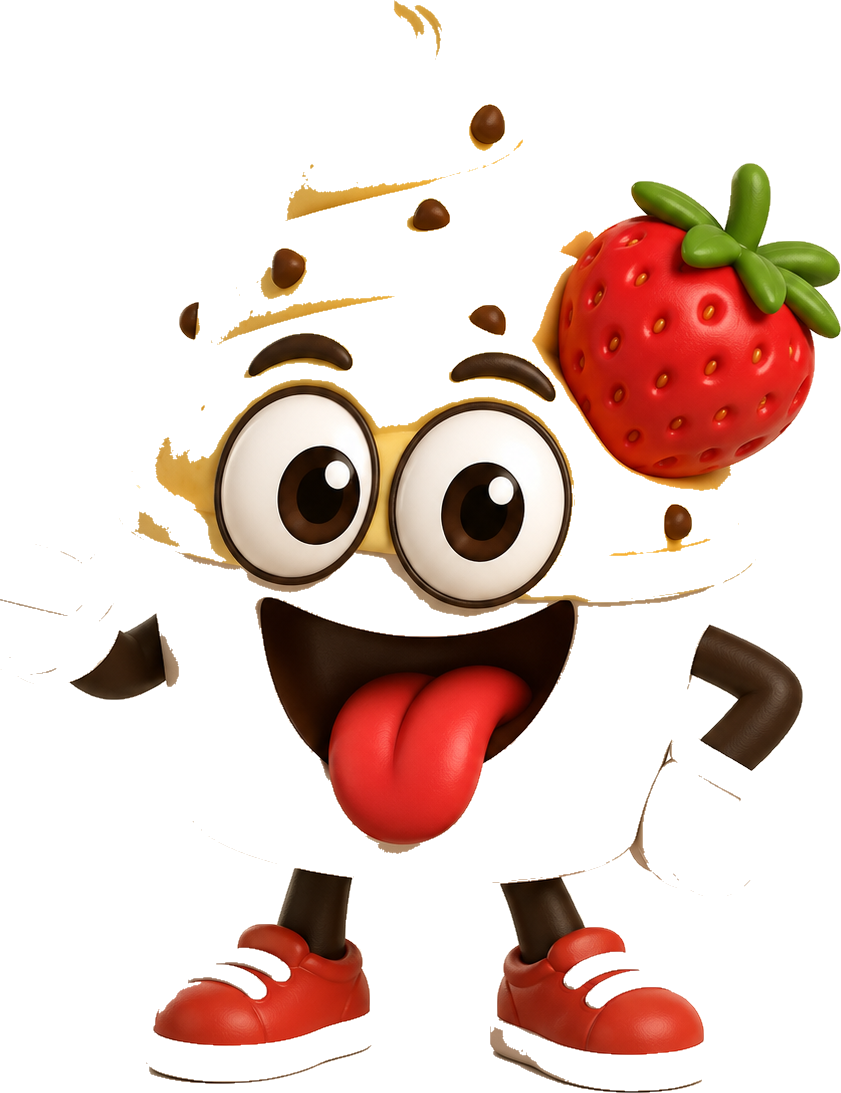
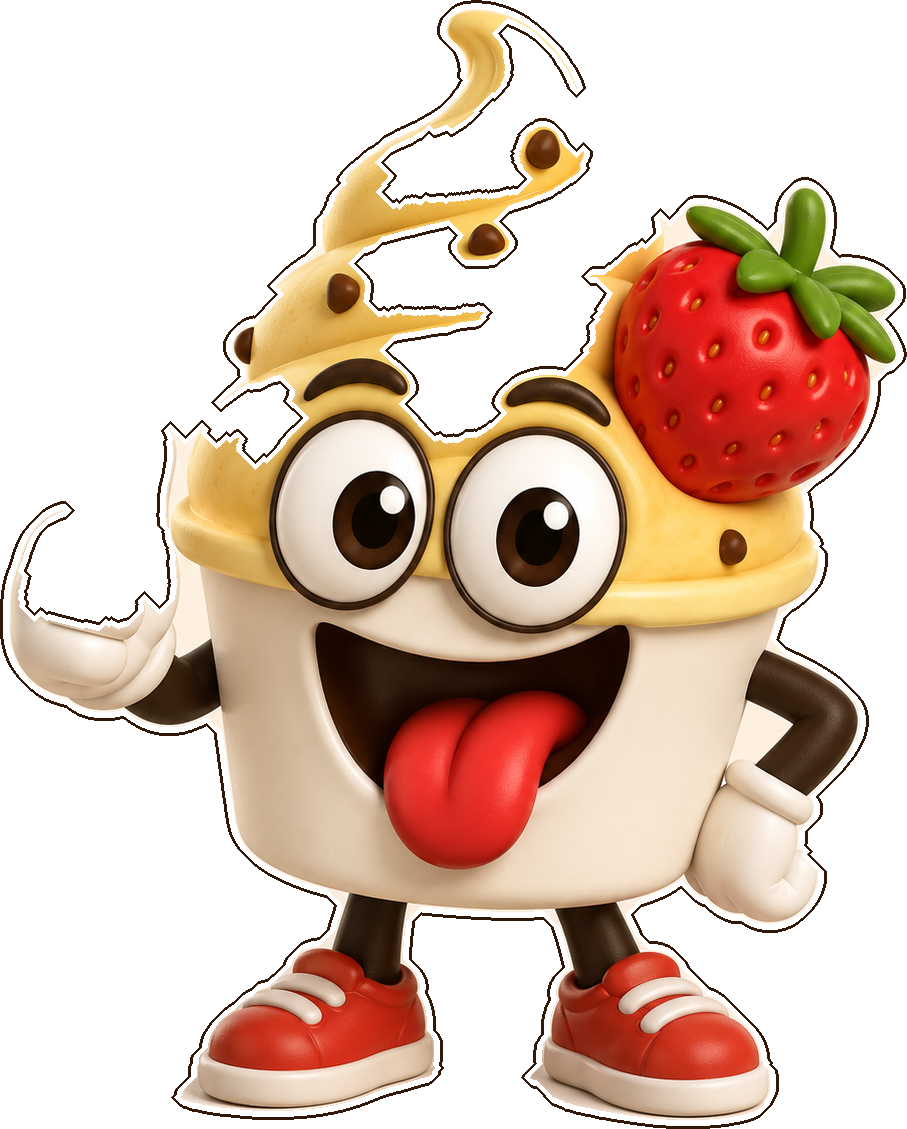
Mascota: contorno solido, halo de color e interaccion por seccion

diff --git a/components/Mascota.tsx b/components/Mascota.tsx
@@ -4,44 +4,72 @@ import Image from "next/image";
 import { useCallback, useEffect, useRef, useState } from "react";
 import { AnimatePresence, motion, useReducedMotion } from "framer-motion";
 
-/** Mensajes que invitan a comprar. */
-const MESSAGES: string[] = [
+type Section = "productos" | "pedido" | "other";
+type Scene = "peek" | "walk" | "fly" | "roll" | "hang" | "eat";
+
+/** Frases generales que invitan a comprar. */
+const MSG_GENERAL: string[] = [
   "¡Llévate 2 sabores y duplica la felicidad! 🧁🧁",
   "El Chocolate nuevo está volando… ¡pide el tuyo! 🍫",
   "Un postre hoy = un día perfecto. ¡Ordena ya! ✨",
   "¿Y si mejor pides 3? Nadie se arrepiente 😏",
-  "Arequipe cremosito te está esperando… 🤤",
   "¡Haz tu pedido ahora y endulza tu semana! 🎉",
   "Regala un postre, gana un abrazo 🥰",
-  "Oreo + Mora = combo ganador. ¡Pídelos! 🍪🫐",
-  "Tu antojo no se va a pedir solo 😜 ¡Dale clic!",
-  "Maracuyá tropical, felicidad total. ¡Ordena! 🌴",
   "Los mejores planes empiezan con un postre 💛",
-  "¡Pide para toda la familia y sé el héroe de hoy! 🦸",
-  "Leche Klim: pruébalo una vez, lo pedirás siempre 🥛",
-  "Antojo detectado 🚨 ¡Corre a hacer tu pedido!",
-  "Limón fresquito para este calor… ¡pídelo ya! 🍋",
-  "5 postres máximo por sabor… ¡reta el límite! 😎"
+  "Antojo detectado 🚨 ¡Corre a hacer tu pedido!"
 ];
 
-type Scene = "peek" | "walk" | "fly" | "roll" | "hang" | "eat";
-const SCENES: Scene[] = ["peek", "walk", "fly", "roll", "hang", "eat"];
+/** Frases cuando el usuario está viendo los sabores. */
+const MSG_PRODUCTOS: string[] = [
+  "Yo pediría más de este 😋",
+  "¿Y si pruebas este otro sabor? 👀",
+  "Este combina delicioso con el Oreo 🍪",
+  "Mmm… a mí se me antojó 🤤",
+  "Agrega 2 y te sale más rico el plan 😏",
+  "Este es de mis favoritos, ¡pídelo! 💛",
+  "No te quedes con las ganas… ¡agrégalo! 🧁",
+  "Un clásico que nunca falla 🌟"
+];
+
+/** Frases breves durante el formulario (sin molestar). */
+const MSG_PEDIDO: string[] = [
+  "¡Ya casi! Estás a un clic 🎉",
+  "Buena elección 😉",
+  "¡Yo llevo tu pedido volando! 🚀",
+  "¡Gracias por pedir! 💛"
+];
 
 function pick<T>(arr: T[], not?: T): T {
   let v = arr[Math.floor(Math.random() * arr.length)];
-  if (not !== undefined && arr.length > 1) {
-    while (v === not) v = arr[Math.floor(Math.random() * arr.length)];
-  }
+  if (not !== undefined && arr.length > 1) while (v === not) v = arr[Math.floor(Math.random() * arr.length)];
   return v;
 }
 
+const SCENES_GENERAL: Scene[] = ["peek", "walk", "fly", "roll", "hang", "eat"];
+const SCENES_PRODUCTOS: Scene[] = ["peek", "eat", "peek"]; // quieto, sugiriendo
+const SCENES_PEDIDO: Scene[] = ["walk", "fly", "roll"];     // solo de paso, no molesta
+
 const SHOW_MS = 10000;
-const GAP_MS = 2200;
+const GAP_MS = 2000;
+
+function currentSection(): Section {
+  if (typeof window === "undefined") return "other";
+  const mid = window.innerHeight / 2;
+  const inMid = (id: string) => {
+    const el = document.getElementById(id);
+    if (!el) return false;
+    const r = el.getBoundingClientRect();
+    return r.top <= mid && r.bottom >= mid;
+  };
+  if (inMid("pedido")) return "pedido";
+  if (inMid("productos")) return "productos";
+  return "other";
+}
 
 export default function Mascota() {
   const [visible, setVisible] = useState(false);
   const [scene, setScene] = useState<Scene>("peek");
-  const [message, setMessage] = useState(MESSAGES[0]);
+  const [message, setMessage] = useState(MSG_GENERAL[0]);
   const [seed, setSeed] = useState(0.5);
   const [vw, setVw] = useState(1200);
   const [dismissed, setDismissed] = useState(false);
@@ -56,8 +84,17 @@ export default function Mascota() {
   const cycle = useCallback(() => {
     setVw(window.innerWidth);
     setSeed(Math.random());
-    setScene((prev) => (reduce ? "peek" : pick(SCENES, prev)));
-    setMessage((prev) => pick(MESSAGES, prev));
+    const section = currentSection();
+    const scenes = reduce
+      ? ["peek" as Scene]
+      : section === "productos"
+        ? SCENES_PRODUCTOS
+        : section === "pedido"
+          ? SCENES_PEDIDO
+          : SCENES_GENERAL;
+    const msgs = section === "productos" ? MSG_PRODUCTOS : section === "pedido" ? MSG_PEDIDO : MSG_GENERAL;
+    setScene((prev) => pick(scenes, prev));
+    setMessage((prev) => pick(msgs, prev));
     setVisible(true);
     const hide = setTimeout(() => {
       setVisible(false);
@@ -83,7 +120,7 @@ export default function Mascota() {
 
   const bubble = (extra = "") => (
     <motion.div
-      className={`pointer-events-auto relative max-w-[200px] rounded-2xl border border-caramel/15 bg-white px-3.5 py-2.5 text-[13px] font-bold leading-5 text-cocoa shadow-lift sm:max-w-[240px] sm:text-sm ${extra}`}
+      className={`pointer-events-auto relative max-w-[200px] rounded-2xl border border-caramel/20 bg-white px-3.5 py-2.5 text-[13px] font-bold leading-5 text-cocoa shadow-lift sm:max-w-[240px] sm:text-sm ${extra}`}
       initial={{ opacity: 0, scale: 0.6 }}
       animate={{ opacity: 1, scale: 1 }}
       transition={{ delay: 0.35, type: "spring", stiffness: 260, damping: 18 }}
@@ -100,16 +137,21 @@ export default function Mascota() {
     </motion.div>
   );
 
-  const img = (w: number) => (
-    <Image
-      src="/images/mascota.png"
-      alt="Mascota Postres de Locos"
-      width={248}
-      height={322}
-      className="h-auto w-full drop-shadow-[0_14px_20px_rgba(50,24,8,0.28)]"
-      style={{ width: "100%" }}
-      sizes={`${w}px`}
-    />
+  // Personaje con halo de color detrás para que resalte sobre cualquier fondo.
+  const img = () => (
+    <span className="relative block h-full w-full">
+      <span
+        aria-hidden
+        className="absolute left-1/2 top-1/2 -z-10 h-[115%] w-[115%] -translate-x-1/2 -translate-y-1/2 rounded-full bg-[radial-gradient(circle,rgba(245,183,47,0.55),rgba(195,107,32,0.18)_45%,rgba(245,183,47,0)_72%)] blur-md"
+      />
+      <Image
+        src="/images/mascota.png"
+        alt="Mascota Postres de Locos"
+        width={248}
+        height={309}
+        className="h-auto w-full drop-shadow-[0_12px_18px_rgba(50,24,8,0.30)]"
+      />
+    </span>
   );
 
   return (
@@ -126,11 +168,11 @@ export default function Mascota() {
             transition={spring}
           >
             <motion.div
-              className="w-[88px] sm:w-[116px]"
+              className="w-[92px] sm:w-[122px]"
               animate={reduce ? undefined : { y: [0, -6, 0], rotate: [0, -2.5, 0] }}
               transition={{ duration: 2.6, repeat: Infinity, ease: "easeInOut" }}
             >
-              {img(116)}
+              {img()}
             </motion.div>
             {bubble("mb-5")}
           </motion.div>
@@ -146,11 +188,11 @@ export default function Mascota() {
             transition={cross}
           >
             <motion.div
-              className="w-[80px] sm:w-[104px]"
+              className="w-[82px] sm:w-[106px]"
               animate={{ y: [0, -9, 0], rotate: [-4, 4, -4] }}
               transition={{ duration: 0.55, repeat: Infinity, ease: "easeInOut" }}
             >
-              {img(104)}
+              {img()}
             </motion.div>
             {bubble("mb-6")}
           </motion.div>
@@ -167,13 +209,13 @@ export default function Mascota() {
             transition={cross}
           >
             <motion.div
-              className="relative w-[76px] sm:w-[100px]"
+              className="relative w-[78px] sm:w-[102px]"
               animate={{ y: [0, -16, 0], rotate: [-7, -3, -7] }}
               transition={{ duration: 2.2, repeat: Infinity, ease: "easeInOut" }}
             >
-              <span className="absolute -top-9 left-1/2 -translate-x-1/2 text-3xl sm:text-4xl">🎈</span>
-              <span className="absolute -top-3 left-1/2 h-4 w-px -translate-x-1/2 bg-cocoa/40" />
-              {img(100)}
+              <span className="absolute -top-9 left-1/2 z-10 -translate-x-1/2 text-3xl sm:text-4xl">🎈</span>
+              <span className="absolute -top-3 left-1/2 z-10 h-4 w-px -translate-x-1/2 bg-cocoa/40" />
+              {img()}
             </motion.div>
             {bubble("mt-8")}
           </motion.div>
@@ -188,12 +230,8 @@ export default function Mascota() {
             exit={{ opacity: 0 }}
             transition={cross}
           >
-            <motion.div
-              className="w-[72px] sm:w-[96px]"
-              animate={{ rotate: 360 * 5 }}
-              transition={cross}
-            >
-              {img(96)}
+            <motion.div className="w-[74px] sm:w-[98px]" animate={{ rotate: 360 * 5 }} transition={cross}>
+              {img()}
             </motion.div>
             {bubble("mt-4")}
           </motion.div>
@@ -204,9 +242,9 @@ export default function Mascota() {
             key="hang"
             className="absolute top-0 flex flex-col items-center"
             style={{ left: `${12 + seed * 60}%` }}
-            initial={{ y: -320, opacity: 1 }}
+            initial={{ y: -340, opacity: 1 }}
             animate={{ y: 0 }}
-            exit={{ y: -320 }}
+            exit={{ y: -340 }}
             transition={spring}
           >
             <motion.div
@@ -216,7 +254,7 @@ export default function Mascota() {
             >
               <span className="h-16 w-1 rounded-b bg-caramel/70 sm:h-24" />
               <div className="flex items-start gap-2">
-                <div className="w-[80px] -rotate-3 sm:w-[104px]">{img(104)}</div>
+                <div className="w-[82px] -rotate-3 sm:w-[106px]">{img()}</div>
                 {bubble("mt-6")}
               </div>
             </motion.div>
@@ -236,14 +274,14 @@ export default function Mascota() {
             <div className="relative">
               <span className="absolute -bottom-1 left-1/2 -translate-x-1/2 text-4xl sm:text-5xl">🪑</span>
               <motion.div
-                className="relative w-[84px] rotate-3 sm:w-[108px]"
+                className="relative w-[86px] rotate-3 sm:w-[110px]"
                 animate={reduce ? undefined : { rotate: [3, 6, 3], y: [0, -2, 0] }}
                 transition={{ duration: 1.1, repeat: Infinity, ease: "easeInOut" }}
               >
-                {img(108)}
+                {img()}
                 <motion.span
-                  className="absolute -left-3 bottom-8 text-2xl sm:text-3xl"
-                  animate={{ scale: [1, 0.85, 0.7, 0.55, 0.4, 0.2, 0], opacity: [1, 1, 1, 1, 1, 1, 0] }}
+                  className="absolute -left-3 bottom-8 z-10 text-2xl sm:text-3xl"
+                  animate={{ scale: [1, 0.8, 0.6, 0.4, 0.2, 0], opacity: [1, 1, 1, 1, 1, 0] }}
                   transition={{ duration: SHOW_MS / 1000 - 1, ease: "easeInOut" }}
                 >
                   🍨